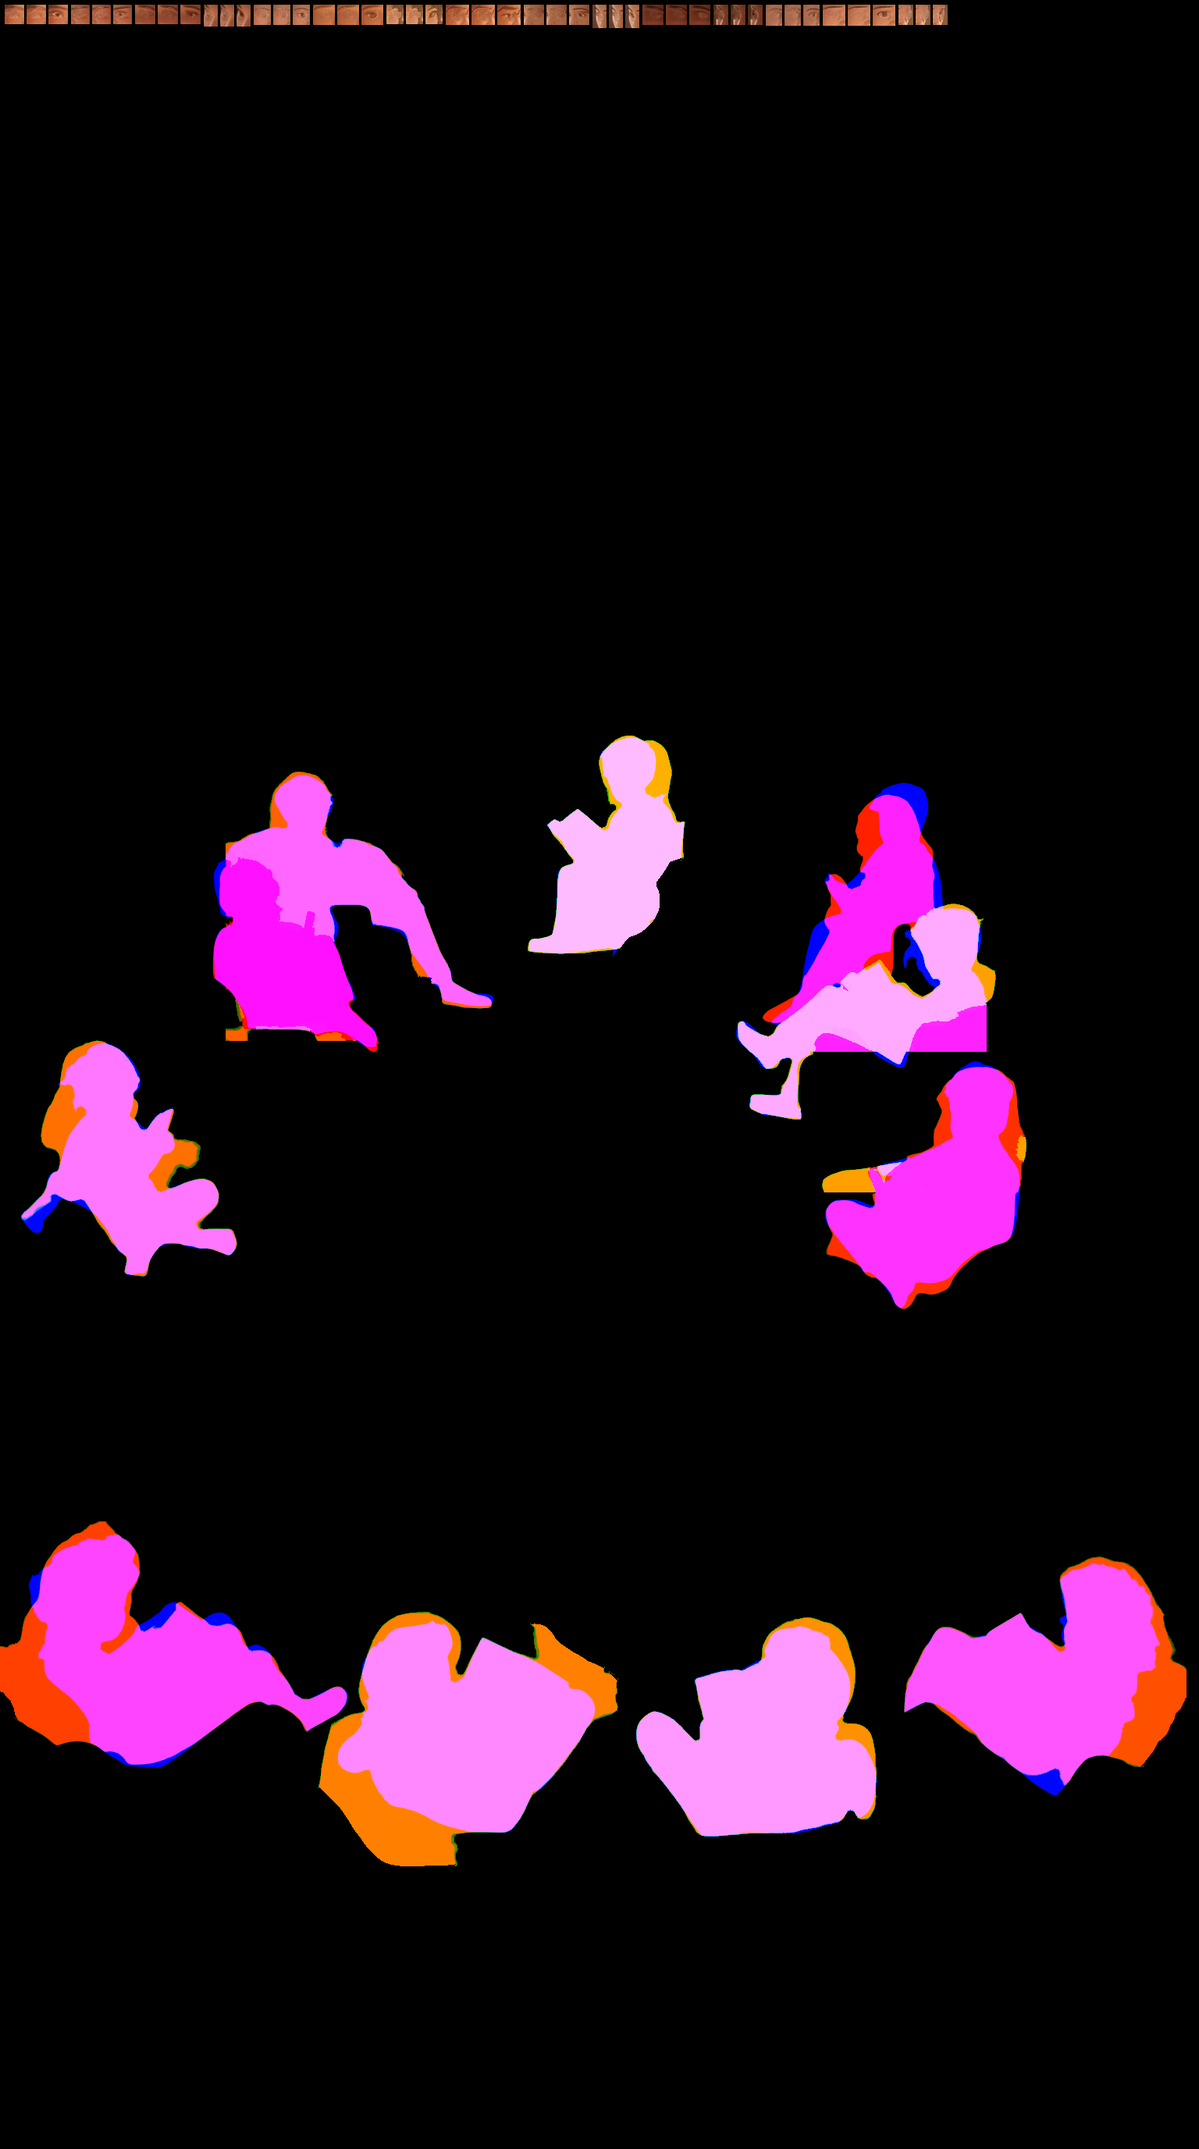
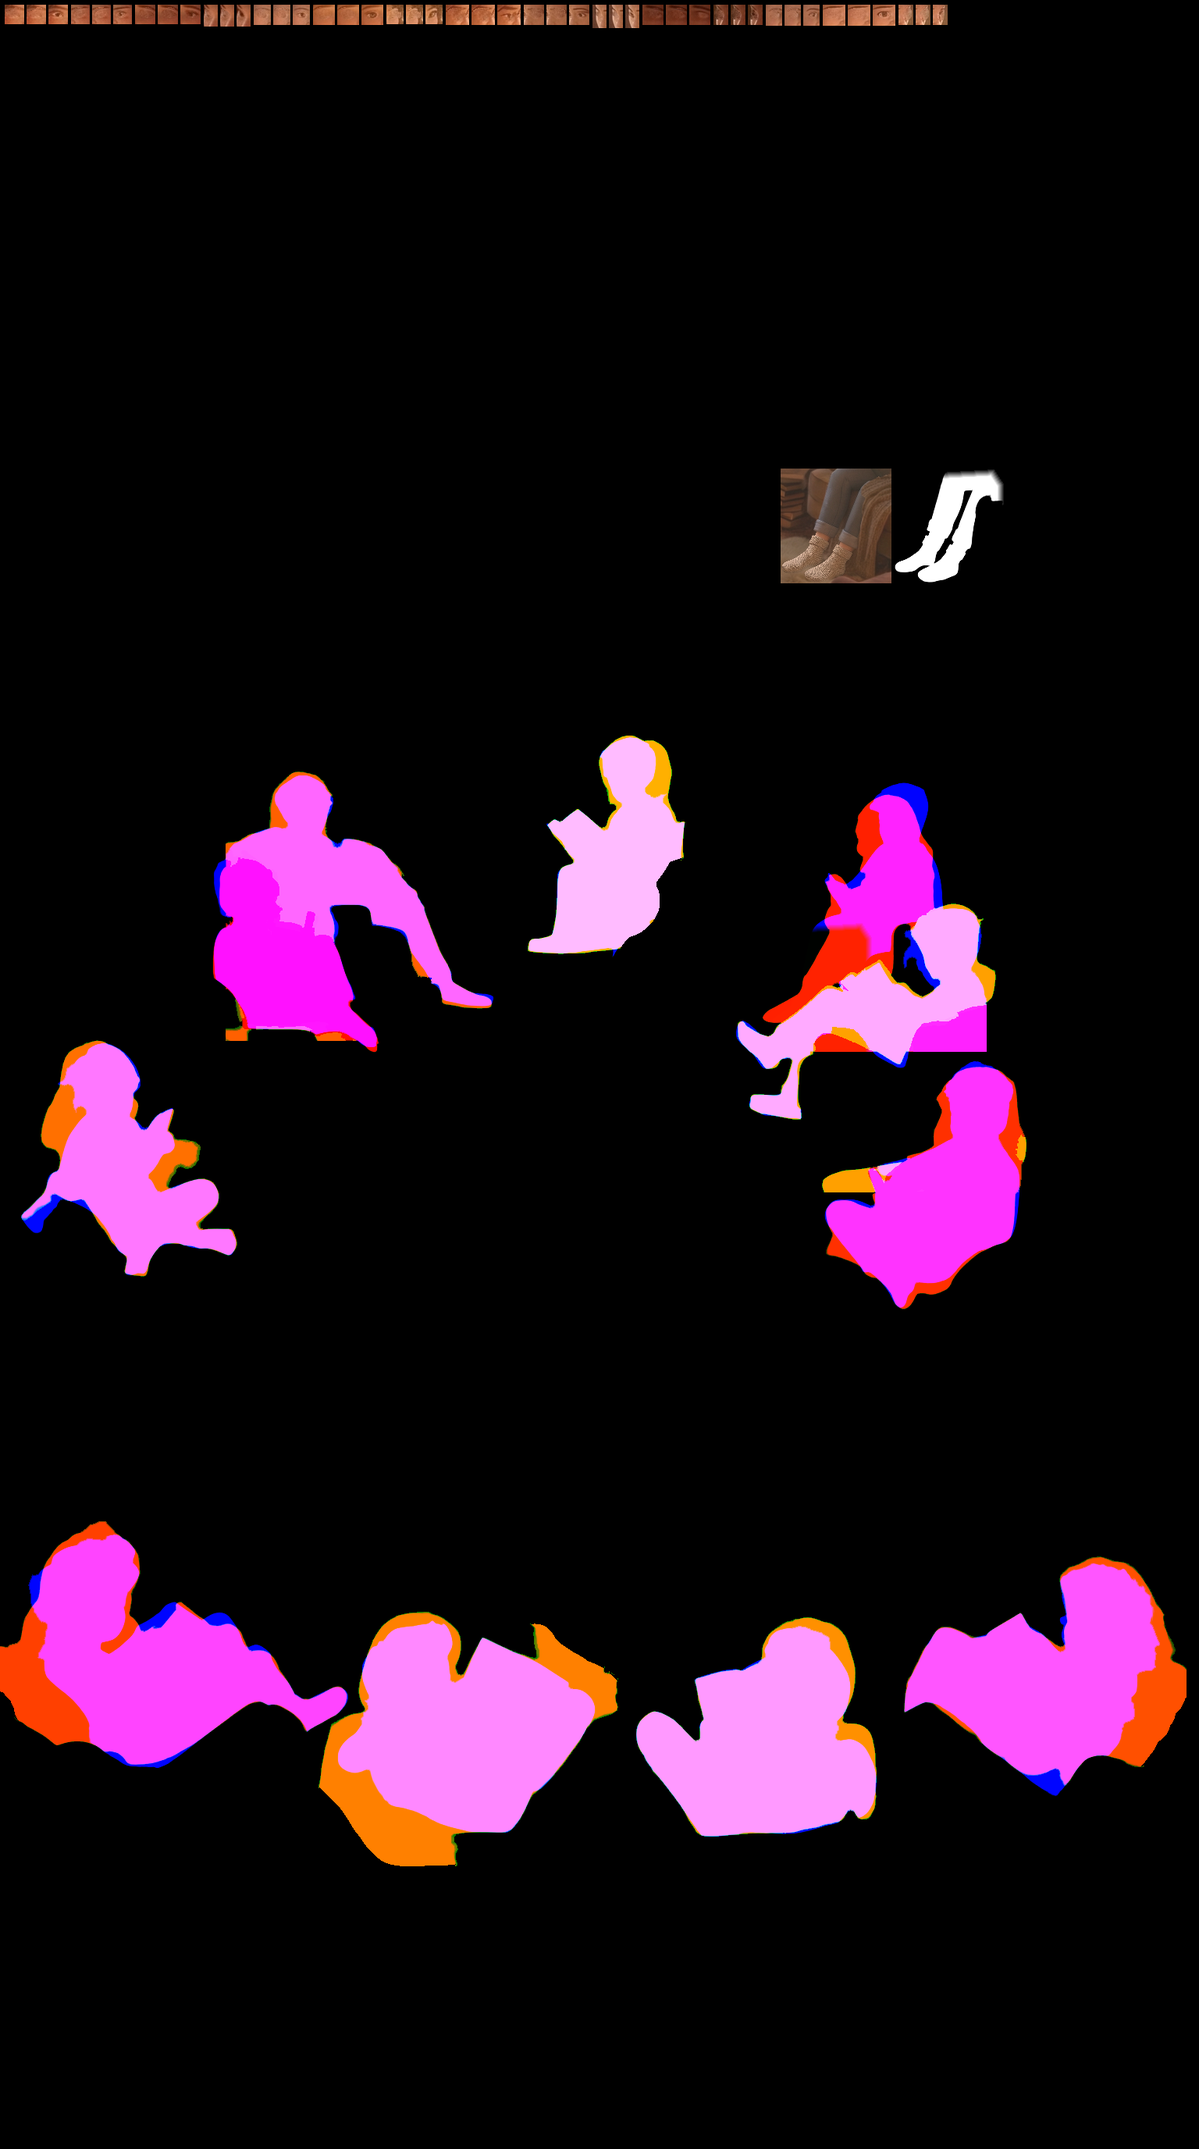
Reading room on phones: the man in reader 2's chair has the legs the founder drew
The founder (2026-10-07): his legs were still cut on the site; he generated a
picture of the night hall with both shins and knitted socks and asked to use
it, with the same blinking and reading as everyone else.

The render hides this man's shins behind reader 10's legs, and the copy of his
other leg the engine drew there never looked right. Now, below a seam under his
book, his legs come from the founder's picture (prototypes/reading-room/
build_legs.py): placed on the render by its matching features (his body matches
it to a pixel), kept in the people mask's spare corner, and drawn for him by
day too, brought to the day light. Reader 10 still covers them when someone sits
there. He keeps his eyes, page turns and movements: only the legs changed.

Changed region(s): [[0.625, 0.2188, 0.8438, 0.2812], [0.6562, 0.4062, 0.7188, 0.5]]

diff --git a/frontend/src/widgets/ReadingRoom/casts.js b/frontend/src/widgets/ReadingRoom/casts.js
@@ -9,3 +9,7 @@
 export const CAST_EYES={"a":{"day":{"f":{"6":[[0.35102,0.2666,0.00277,-0.000495,0.001758,0.002279,0.001367,0,-0.3157703,-0.2311198,0.0101744,0.853]],"1":[[0.32068,0.34896,0.00303,-8.5e-05,0.002214,0.002344,0.00179,0,-0.3139535,-0.3359375,0.0105378,0.85],[0.3284,0.34873,0.00221,-0.000293,0.002376,0.002441,0.00151,0,-0.2903343,-0.3359375,0.0090843,0.862]],"2":[[0.64528,0.29219,0.00263,-0.000247,0.001432,0.002604,0.001491,0,-0.5792151,-0.2799479,0.0101744,0.855],[0.63854,0.2918,0.00155,8.5e-05,0.001562,0.001562,0.00179,0,-0.5425145,-0.2792969,0.0079942,0.88]],"3":[[0.75309,0.48724,0.0033,-0.000247,0.002148,0.00319,0.002109,0,-0.6311773,-0.4739583,0.0112645,0.848],[0.7432,0.48268,0.00233,0.000417,0.002344,0.002344,0.002663,0,-0.7369186,-0.4459635,0.0094477,0.859]],"7":[[0.23519,0.51989,0.00341,-0.000371,0.002507,0.003158,0.001191,0,-0.1682413,-0.484375,0.0116279,0.847],[0.24613,0.51549,0.00168,-0.000254,0.001693,0.002214,0.002266,0,-0.1457122,-0.4798177,0.0079942,0.875]]},"m":{"6":[[0.35238,0.27266,0.00266,-0.000247,0.001432,0.001562,0.001367,0,-0.2365552,-0.2148438,0.0101744,0.855]],"1":[[0.32089,0.34863,0.00274,0.0,0.00306,0.00332,0.0,0,-0.1951308,-0.3138021,0.0101744,0.728]],"2":[[0.65162,0.27734,0.00208,-8.5e-05,0.001562,0.001758,0.002012,0,-0.6457122,-0.21875,0.0087209,0.864],[0.64462,0.27572,0.00166,-0.000169,0.001497,0.001628,0.00179,0,-0.6126453,-0.2174479,0.0079942,0.875]],"3":[[0.75307,0.4903,0.00306,0.0,0.002018,0.00293,0.001589,0,-0.6954942,-0.4316406,0.0105378,0.85],[0.74302,0.48542,0.00202,-8.5e-05,0.002344,0.002604,0.002012,0,-0.6544331,-0.4257812,0.0087209,0.865]],"7":[[0.23868,0.52448,0.00359,-0.000247,0.002279,0.002409,0.001712,0,-0.2311047,-0.4433594,0.0119913,0.845],[0.24797,0.52031,0.00148,-8.5e-05,0.002018,0.002148,0.001094,0,-0.2063953,-0.4401042,0.0076308,0.882]]}},"night":{"f":{"6":[[0.35129,0.2668,0.00377,-0.000247,0.001562,0.002344,0.001367,0,-0.3172238,-0.2317708,0.0123547,0.844]],"1":[[0.32028,0.34971,0.00263,-0.000124,0.00166,0.003158,0.00179,0,-0.3139535,-0.3372396,0.009811,0.855],[0.32812,0.3498,0.00233,-0.000332,0.002539,0.002669,0.00151,0,-0.2921512,-0.3365885,0.0094477,0.859]],"2":[[0.64515,0.29329,0.00235,-0.000169,0.001562,0.001823,0.002663,0,-0.5803052,-0.2799479,0.0094477,0.859],[0.63863,0.29219,0.00166,8.5e-05,0.001562,0.001693,0.00127,0,-0.5457849,-0.280599,0.0083576,0.875]],"3":[[0.75365,0.48789,0.00306,-0.000247,0.002865,0.003255,0.001589,0,-0.6340843,-0.4746094,0.0109012,0.85],[0.74331,0.48138,0.00202,8.5e-05,0.002344,0.002539,0.001491,0,-0.7376453,-0.4459635,0.0087209,0.865]],"7":[[0.23556,0.52005,0.00355,-0.000247,0.002669,0.00319,0.001712,0,-0.1642442,-0.483724,0.0119913,0.845],[0.24586,0.51589,0.00202,-0.000254,0.002018,0.002279,0.001615,0,-0.1398983,-0.4804688,0.0087209,0.865]]},"m":{"6":[[0.35247,0.27148,0.00388,-0.00041,0.002865,0.003255,0.001888,0,-0.3448401,-0.1907552,0.0123547,0.843]],"1":[[0.32013,0.34782,0.00237,-0.000625,0.002246,0.002181,0.00179,0,-0.1871366,-0.311849,0.0094477,0.859],[0.32776,0.34629,0.0021,-0.000332,0.002279,0.002669,0.00151,0,-0.3219477,-0.2877604,0.0087209,0.864]],"2":[[0.65189,0.27728,0.0029,-0.000163,0.001823,0.002214,0.002012,0,-0.6188227,-0.21875,0.0101744,0.851],[0.64462,0.27572,0.0021,-0.000169,0.001758,0.002148,0.00127,0,-0.5813953,-0.218099,0.0087209,0.864]],"3":[[0.75363,0.49004,0.00335,0.000163,0.001953,0.002344,0.001589,0,-0.6624273,-0.4322917,0.0116279,0.847],[0.74284,0.48509,0.00197,0.0,0.002344,0.002865,0.001491,0,-0.6177326,-0.4270833,0.0087209,0.867]],"7":[[0.2389,0.52422,0.0035,-0.000247,0.002865,0.002669,0.001191,0,-0.1940407,-0.4440104,0.0119913,0.846],[0.24747,0.52083,0.0019,-8.5e-05,0.002604,0.00293,0.002266,0,-0.1678779,-0.4401042,0.0087209,0.868]]}}},"m":{"day":{"f":{"6":[[0.25749,0.37725,0.00377,-0.000142,0.000872,0.00109,0.00069,0,-0.0390625,-0.3706395,0.016276,0.864]],"1":[[0.21029,0.42068,0.00496,-9.1e-05,0.000763,0.000981,0.000799,0,-0.1985677,-0.4142442,0.0182292,0.853]],"2":[[0.736,0.39117,0.00456,-9.1e-05,0.00069,0.000908,0.00069,0,-0.6692708,-0.384811,0.0175781,0.856]],"3":[[0.80892,0.52206,0.00496,-9.1e-05,0.000836,0.001054,0.000774,0,-0.688151,-0.515625,0.0188802,0.853],[0.79658,0.51955,0.00277,0.000716,0.000509,0.000872,0.00073,0,-0.6210938,-0.512718,0.0136719,0.88]],"7":[[0.08561,0.51137,0.00615,-9.1e-05,0.001199,0.001126,0.00061,0,0.1842448,-0.5047238,0.0201823,0.847],[0.10384,0.50858,0.00377,-0.000233,0.000872,0.00109,0.000563,0,0.2252604,-0.5021802,0.016276,0.864]]},"m":{"6":[[0.25928,0.38121,0.00357,-0.000189,0.000981,0.001054,0.00069,0,0.3860677,-0.3742733,0.015625,0.867]],"1":[[0.21208,0.42271,0.00635,-0.000182,0.000836,0.000981,0.000799,0,0.1692708,-0.416061,0.0214844,0.845]],"2":[[0.74447,0.38521,0.00536,-9.1e-05,0.000981,0.001126,0.00069,0,-0.2994792,-0.3786337,0.0188802,0.851],[0.736,0.38532,0.00258,0.000912,0.000581,0.000945,0.000887,0,-0.2363281,-0.377907,0.0136719,0.884]],"3":[[0.80859,0.52271,0.00576,0.0,0.000908,0.001126,0.000774,0,-0.2643229,-0.5159884,0.0195312,0.848],[0.796,0.52093,0.00286,0.000429,0.00069,0.000799,0.00073,0,-0.1953125,-0.5141715,0.0143229,0.877]],"7":[[0.09508,0.51424,0.00635,-4.7e-05,0.000945,0.00149,0.00061,0,0.6002604,-0.5076308,0.0208333,0.845],[0.10758,0.51308,0.00277,-0.00024,0.000799,0.001163,0.000563,0,0.6477865,-0.5065407,0.0143229,0.88]]}},"night":{"f":{"6":[[0.25667,0.37725,0.00437,-0.000138,0.000945,0.00109,0.00069,0,-0.0182292,-0.3706395,0.0169271,0.857]],"1":[[0.21338,0.42148,0.00476,-0.000185,0.00069,0.000981,0.000799,0,-0.2018229,-0.4149709,0.0182292,0.855]],"2":[[0.73861,0.39172,0.00576,-4.7e-05,0.000799,0.000872,0.00069,0,-0.6705729,-0.3851744,0.0201823,0.848]],"3":[[0.80957,0.52271,0.00655,0.000182,0.001126,0.001344,0.000774,0,-0.6796875,-0.515625,0.0214844,0.845],[0.79655,0.51966,0.00298,0.000665,0.00069,0.000763,0.00073,0,-0.6048177,-0.512718,0.014974,0.875]],"7":[[0.09049,0.51283,0.00576,-0.000367,0.000763,0.001126,0.00061,0,0.2005208,-0.5061773,0.0195312,0.848],[0.10612,0.50981,0.00337,-0.000425,0.000872,0.001017,0.000563,0,0.2421875,-0.502907,0.015625,0.869]]},"m":{"6":[[0.25879,0.38105,0.00536,-0.00016,0.00089,0.001145,0.00069,0,0.3997396,-0.3742733,0.0188802,0.851]],"1":[[0.21387,0.4206,0.00536,-0.000185,0.000836,0.000981,0.000799,0,0.1835938,-0.4138808,0.0188802,0.851]],"2":[[0.74626,0.38423,0.00516,-0.000138,0.000945,0.00109,0.000981,0,-0.2916667,-0.3771802,0.0188802,0.852],[0.73568,0.38488,0.00258,0.000912,0.00109,0.000581,0.000887,0,-0.2265625,-0.3771802,0.0130208,0.884]],"3":[[0.81185,0.52373,0.00615,9.1e-05,0.001126,0.001126,0.000774,0,-0.2591146,-0.5167151,0.0208333,0.847],[0.79925,0.5224,0.00286,0.000309,0.0006,0.000854,0.00073,0,-0.186849,-0.5159884,0.0143229,0.877]],"7":[[0.08952,0.5141,0.00615,0.000138,0.000799,0.001054,0.00061,0,0.6269531,-0.5076308,0.0201823,0.847],[0.10433,0.51297,0.00396,-0.000654,0.000363,0.001054,0.001217,0,0.671224,-0.505814,0.016276,0.862]]}}}};
 export const CAST_BOX={"a":{"1":[0.25,0.268,0.403,0.493],"2":[0.572,0.234,0.693,0.498],"3":[0.653,0.408,0.803,0.701],"4":[0.088,0.668,0.362,0.986],"5":[0.645,0.698,0.852,0.98],"6":[0.3052,0.225,0.455,0.4551],"7":[0.195,0.45,0.34,0.725],"8":[0.33,0.745,0.505,0.98],"9":[0.505,0.75,0.672,0.982],"10":[0.562,0.332,0.7217,0.558],"11":[0.462,0.188,0.555,0.4036]},"m":{"1":[0.0859,0.3783,0.347,0.5073],"2":[0.6074,0.363,0.8229,0.4895],"3":[0.6497,0.4807,0.8757,0.6344],"4":[0.0,0.7078,0.2995,0.8292],"5":[0.7188,0.7242,0.9896,0.8361],"6":[0.1882,0.3448,0.4128,0.4873],"7":[0.002,0.4633,0.2565,0.6305],"8":[0.2656,0.7478,0.5156,0.8692],"9":[0.5202,0.7525,0.7448,0.8608],"10":[0.582,0.4026,0.8672,0.5549],"11":[0.4193,0.3223,0.6074,0.4495]}};
 export const CAST_PAGES={"a":{"1":{"s0":[0.34775,0.3724],"d":[0.00145,0.00911],"r":[-0.01853,-0.00586],"l":[0.00145,-0.01758],"up":[-0.00283,-0.00677],"away":0,"mode":3,"tiles":[2,3],"tint":[1.25,1.25,1.25],"under":-1},"2":{"s0":[0.62246,0.33464],"d":[0.00073,0.00911],"r":[0.01781,-0.00651],"l":[-0.00981,-0.01107],"up":[0.00142,-0.0127],"away":0,"mode":3,"tiles":[2,3],"tint":[0.9,0.9,0.9],"under":-1},"6":{"s0":[0.38481,0.29362],"d":[0.00073,0.00911],"r":[-0.01708,-0.00521],"l":[0.00581,-0.00977],"up":[-0.00189,-0.011],"away":0,"mode":3,"tiles":[2,3],"tint":[1.25,1.25,1.25],"under":-1},"7":{"s0":[0.25581,0.54883],"d":[0.00145,0.01302],"r":[-0.01962,0.0],"l":[0.01054,-0.01758],"up":[-0.00331,-0.01439],"away":0,"mode":3,"tiles":[2,3],"tint":[1.011,1.011,1.011],"under":-1},"8":{"s0":[0.45422,0.82161],"d":[-0.01453,0.06706],"r":[0.01308,0.01497],"l":[-0.02798,0.0],"up":[-0.00109,-0.00456],"away":0,"mode":2,"tiles":[2,3],"tint":[0.708,0.708,0.708],"under":-1},"11":{"s0":[0.47602,0.27441],"d":[0.0109,0.01693],"r":[0.01272,-0.01009],"l":[-0.00291,0.00228],"up":[-0.00182,-0.00521],"away":0,"mode":2,"tiles":[2,3],"tint":[1.25,1.25,1.25],"under":-1}},"m":{"4":{"s0":[0.16178,0.75472],"d":[-0.01855,0.02507],"r":[0.01432,0.00327],"l":[-0.02702,-0.00927],"up":[-0.00195,-0.00182],"away":0,"mode":2,"tiles":[4,5],"tint":[0.759,0.759,0.759],"under":-1},"5":{"s0":[0.82161,0.76036],"d":[0.02604,0.02634],"r":[0.0293,-0.00963],"l":[-0.01302,0.00309],"up":[-0.0013,-0.00182],"away":0,"mode":2,"tiles":[4,5],"tint":[0.7,0.7,0.7],"under":-1},"8":{"s0":[0.42969,0.77108],"d":[-0.00781,0.03379],"r":[0.04395,0.01163],"l":[-0.02441,-0.00799],"up":[-0.00195,-0.00218],"away":0,"mode":2,"tiles":[4,5],"tint":[0.7,0.7,0.7],"under":-1},"9":{"s0":[0.61784,0.77653],"d":[0.01693,0.0327],"r":[0.02865,-0.004],"l":[-0.0319,0.00363],"up":[0.00195,-0.00182],"away":0,"mode":2,"tiles":[4,5],"tint":[0.756,0.756,0.756],"under":-1},"11":{"s0":[0.46908,0.38081],"d":[0.02116,0.01199],"r":[0.01172,-0.00581],"l":[-0.00716,-0.00073],"up":[-0.00391,-0.00291],"away":0,"mode":2,"tiles":[4,5],"tint":[1.189,1.189,1.189],"under":-1},"1":{"s0":[0.25423,0.43401],"d":[0.00251,0.00477],"r":[-0.02989,-0.00304],"l":[0.00201,-0.0092],"up":[-0.00468,-0.00354],"away":0,"mode":3,"tiles":[4,5],"tint":[1.25,1.25,1.25],"under":-1},"2":{"s0":[0.69862,0.41413],"d":[0.00115,0.00474],"r":[0.02856,-0.00329],"l":[-0.01571,-0.0058],"up":[0.00229,-0.00659],"away":0,"mode":3,"tiles":[4,5],"tint":[0.9,0.9,0.9],"under":-1},"6":{"s0":[0.31234,0.39192],"d":[0.00125,0.00479],"r":[-0.02767,-0.00263],"l":[0.00933,-0.00518],"up":[-0.00314,-0.00578],"away":0,"mode":3,"tiles":[4,5],"tint":[1.211,1.211,1.211],"under":-1},"7":{"s0":[0.11732,0.52649],"d":[0.00269,0.0066],"r":[-0.03,-2e-05],"l":[0.01548,-0.0089],"up":[-0.00557,-0.0073],"away":0,"mode":3,"tiles":[4,5],"tint":[0.917,0.917,0.917],"under":-1}}};
+/* CAST_LEGS: legs the founder drew for a reader the render hides them for, kept in the people mask's spare corner
+   (build_legs.py): per hall the reader, and per time of day where they go (box, uv) and the offsets to their colour
+   and coverage */
+export const CAST_LEGS={"m":{"id":2,"man":1,"night":{"box":[0.63542,0.42914,0.72786,0.48256],"off":[0.015625,-0.2111192,0.110026,-0.2111192]},"day":{"box":[0.63542,0.42914,0.72786,0.48256],"off":[0.015625,-0.2111192,0.110026,-0.2111192]}}};

diff --git a/frontend/src/widgets/ReadingRoom/engine.js b/frontend/src/widgets/ReadingRoom/engine.js
@@ -4,7 +4,7 @@
    Ported from the prototype (prototypes/reading-room/index.html), where every number here was measured and checked.
    Phones get the founder's portrait render of the hall (m-*, rig in rig-m.js, built by prototypes/reading-room/mobile/). */
 import {RIG_M,PAGES_M} from './rig-m.js';
-import {CAST_BOX,CAST_EYES,CAST_PAGES} from './casts.js';
+import {CAST_BOX,CAST_EYES,CAST_LEGS,CAST_PAGES} from './casts.js';
 const clamp=(v,a=0,b=1)=>Math.min(b,Math.max(a,v));
 const seg=(p,a,b)=>clamp((p-a)/(b-a));
 const lerp=(a,b,t)=>a+(b-a)*t;
@@ -25,7 +25,7 @@ void main(){vec2 uv=vUv;vec2 d=(uv-uSun)/56.;vec2 s=uv;vec3 acc=vec3(0.);float w
 const mainFS=H=>`precision highp float;varying vec2 vUv;
 uniform sampler2D uImg;uniform sampler2D uRay;uniform vec2 uRes;uniform vec2 uOff;uniform vec2 uSize;uniform vec2 uPar;uniform float uTime;uniform float uWake;uniform float uNight;uniform float uRayK;
 uniform vec4 uWin;uniform vec3 uFire;uniform vec4 uFireBox;uniform vec4 uLamp[24];uniform int uNL;uniform vec4 uSway[6];uniform float uLoaded;uniform float uCasts;uniform sampler2D uWith;uniform sampler2D uWith2;uniform sampler2D uMask;uniform sampler2D uRig;uniform sampler2D uSoft;uniform sampler2D uPages;
-uniform vec4 uS[${NS*8}];uniform vec4 uPg[${NP*7}];uniform vec4 uEye[${NE}];uniform vec4 uLid[${NE}];uniform vec4 uLidK[${NE}];uniform vec4 uCup[8];uniform float uGK;uniform vec2 uSteamK;uniform vec2 uMaskPx;
+uniform vec4 uS[${NS*8}];uniform vec4 uPg[${NP*7}];uniform vec4 uEye[${NE}];uniform vec4 uLid[${NE}];uniform vec4 uLidK[${NE}];uniform vec4 uLeg[2];uniform vec4 uCup[8];uniform float uGK;uniform vec2 uSteamK;uniform vec2 uMaskPx;
 float hash(vec2 p){return fract(sin(dot(p,vec2(127.1,311.7)))*43758.5453);}
 vec2 aff(vec4 m,vec2 t,vec2 p){return vec2(m.x*p.x+m.y*p.y,m.z*p.x+m.w*p.y)+t;}
 /* every reader comes from a render of the hall: where the hall has two casts, a reader numbered past 32 is a man from the
@@ -141,6 +141,7 @@ void main(){
   if(bl>.002)for(int e=0;e<${NE};e++){vec4 L=uLid[e];if(abs(L.w-float(i))<.5)q.rgb=lid(s,q.rgb,uEye[e],L,uLidK[e],bl,id);}
   c=mix(c,q.rgb,q.a*vis);
 ${limbsGLSL(H)}
+${legsGLSL(H)}
   /* the book with the hands holding it, crisp and whole */
   vec3 rB=texture2D(uRig,pB).rgb;
   if(rB.g>.002){q=person(pB,id);c=mix(c,q.rgb,q.a*rB.g*vis);}
@@ -250,6 +251,16 @@ function limbsGLSL(H){
     return `  if(abs(id-${f(id)})<.5){vec2 sp=uv0-vec2(${f(l.off[0]/W)},${f(l.off[1]/Hh)}),P=sp*uMaskPx;float w=${w};
    if(w>.001){vec4 mk=texture2D(uMask,sp);float k=w*owns(sp,${man},${f(l.id)})*owns(uv0,${man},${f(l.front)})*mix(mk.r,mk.b,${man});c=mix(c,photo(sp,id),k*vis);}}`;
   }).join('\n');
+}
+
+/* Legs drawn for a reader whose render hides them (HALLS.*.legs, casts.js CAST_LEGS): in the box uLeg[0] (uv) the colour
+   and the coverage wait in the people mask at the offsets uLeg[1].xy and .zw. They stay put, and the readers drawn after
+   (in front) cover them */
+function legsGLSL(H){
+  if(!H.legs)return '';
+  const id=H.legs.id+(H.legs.man?32:0);
+  return `  if(abs(id-${id.toFixed(1)})<.5&&uLeg[0].z>0.&&uv0.x>uLeg[0].x&&uv0.x<uLeg[0].z&&uv0.y>uLeg[0].y&&uv0.y<uLeg[0].w){
+   c=mix(c,texture2D(uMask,uv0+uLeg[1].xy).rgb,texture2D(uMask,uv0+uLeg[1].zw).r*vis);}`;
 }
 
 /* the photo in use: its size in px and its rig (set by createRoomEngine from the hall) */
@@ -429,7 +440,9 @@ const M={files:'m',casts:{eyes:CAST_EYES.m,box:CAST_BOX.m,pages:CAST_PAGES.m},po
   lamps:[[.063,.425,1],[.83,.44,.8],[.592,.328,.7],[.378,.327,.7],[.07,.309,.6]],
   cups:[[.5501,.456],[.5811,.461],[.5615,.7295],[.6144,.7436]],
   sway:[[.5,.13,.22,.05],[.45,.3,.1,.05],[.08,.42,.07,.06],[.9,.36,.06,.05],[.97,.73,.05,.05]],
-  limbs:[{id:2,man:1,front:10,off:[30,4],win:[[1036,1222,1029,1264,13],[1028,1274,1000,1310,9]]}],
+  /* the man in reader 2's chair: the render hides his shins behind reader 10's legs; the founder drew them
+     (2026-10-07, build_legs.py) */
+  legs:CAST_LEGS.m,
   dust:{skew:-.02}};
 const MSEAT={1:[.246,.44,0],2:[.711,.418,-1],3:[.752,.565,-1],4:[.15,.77,-1],5:[.843,.775,-1],6:[.293,.40,-1],7:[.11,.54,-1],8:[.426,.79,-1],9:[.615,.80,-1],10:[.727,.465,1],11:[.483,.39,2]};
 const MCHAR={1:{g:'f',head:[.201,.393],ring:[.2116,.4526]},2:{g:'f',head:[.737,.37],ring:[.7324,.4072]},3:{g:'m',head:[.815,.496],ring:[.815,.516]},
@@ -452,7 +465,7 @@ export function seatChar(hall,seat){for(const [id,c] of Object.entries(HALLS[hal
 
 const DUST=[...Array(170)].map((_,i)=>{const r=rng(i*7+3);return {t:r(),s:r()*2-1,ph:r()*6.28,sp:.2+r()*.6,sz:.5+r()*1.4,a:.25+r()*.75}});
 const EMBERS=[...Array(26)].map((_,i)=>{const r=rng(i*13+5);return {x:r(),t:r(),sp:.35+r()*.6,dr:r()*2-1,sz:.6+r()*1.2}});
-const UNIFORMS=['uImg','uRay','uRes','uOff','uSize','uPar','uTime','uWake','uNight','uRayK','uWin','uFire','uFireBox','uLamp','uNL','uSway','uLoaded','uCasts','uWith','uWith2','uMask','uRig','uSoft','uPages','uS','uPg','uEye','uLid','uLidK','uCup','uGK','uSteamK','uMaskPx'];
+const UNIFORMS=['uImg','uRay','uRes','uOff','uSize','uPar','uTime','uWake','uNight','uRayK','uWin','uFire','uFireBox','uLamp','uNL','uSway','uLoaded','uCasts','uWith','uWith2','uMask','uRig','uSoft','uPages','uS','uPg','uEye','uLid','uLidK','uLeg','uCup','uGK','uSteamK','uMaskPx'];
 
 /* opts: hall, base (url of the photos), canvas, fx, stage, frame, edge, teaser, ui, tags, scrollEl (null: the room is shown whole),
    variant ('day' | 'night'), small (phone-sized photos), reduced (less motion), onFlip(key) when a reader turns a page */
@@ -651,7 +664,7 @@ export function createRoomEngine(opts){
       const P6=tex.people;
       [['uWith',P6&&P6.tex,2],['uMask',P6&&P6.mask,3],['uRig',shared.rig,4],['uSoft',shared.soft,5],['uPages',P6&&P6.pages,6],['uWith2',P6&&P6.tex2,7]].forEach(([u,t,i])=>{gl.activeTexture(gl.TEXTURE0+i);gl.bindTexture(gl.TEXTURE_2D,peopleReady&&t?t:tex.ray);gl.uniform1i(U[u],i)});
       if(!peopleReady)frameSlots.ns=0,slotBuf.fill(0);
-      gl.uniform4fv(U.uS,slotBuf);gl.uniform4fv(U.uPg,pgBuf);gl.uniform4fv(U.uEye,eyeBuf);gl.uniform4fv(U.uLid,lidBuf);gl.uniform4fv(U.uLidK,lidKBuf);
+      gl.uniform4fv(U.uS,slotBuf);gl.uniform4fv(U.uPg,pgBuf);gl.uniform4fv(U.uEye,eyeBuf);gl.uniform4fv(U.uLid,lidBuf);gl.uniform4fv(U.uLidK,lidKBuf);const LG=H.legs&&H.legs[CAST_V];gl.uniform4fv(U.uLeg,LG?[...LG.box,...LG.off]:[0,0,0,0,0,0,0,0]);
       const shown={};for(const s of seats)if(s.lastChar)shown[s.lastChar]=Math.max(shown[s.lastChar]||0,s.vis);
       cupBuf.fill(0);H.cups.slice(0,8).forEach((cp,i)=>cupBuf.set([cp[0],cp[1]-.004,seg(P,.6,.85)*(1-(cp[2]?shown[cp[2]]||0:0)),.55+cp[1]*.75],i*4));gl.uniform4fv(U.uCup,cupBuf);gl.uniform4f(U.uFireBox,...H.fireBox);gl.uniform1f(U.uGK,H.gk||1);gl.uniform1f(U.uCasts,CASTS?1:0);gl.uniform2f(U.uMaskPx,PW,PH);gl.uniform2f(U.uSteamK,...(H.steam||[1,1]));
       gl.activeTexture(gl.TEXTURE0);gl.bindTexture(gl.TEXTURE_2D,tex.tex);gl.uniform1i(U.uImg,0);
